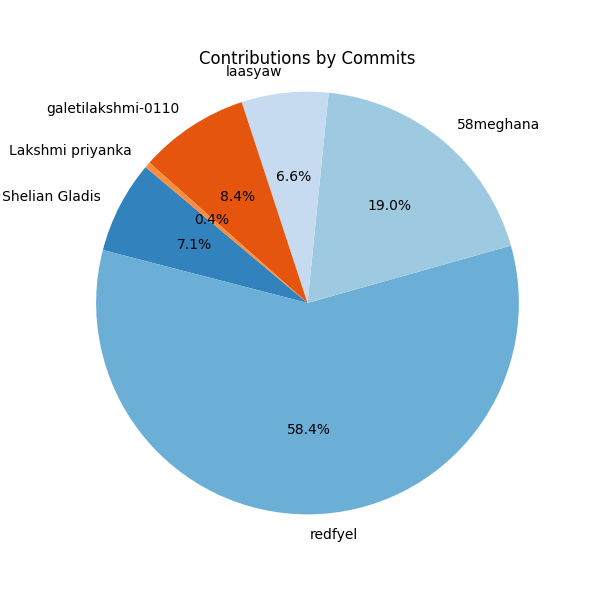
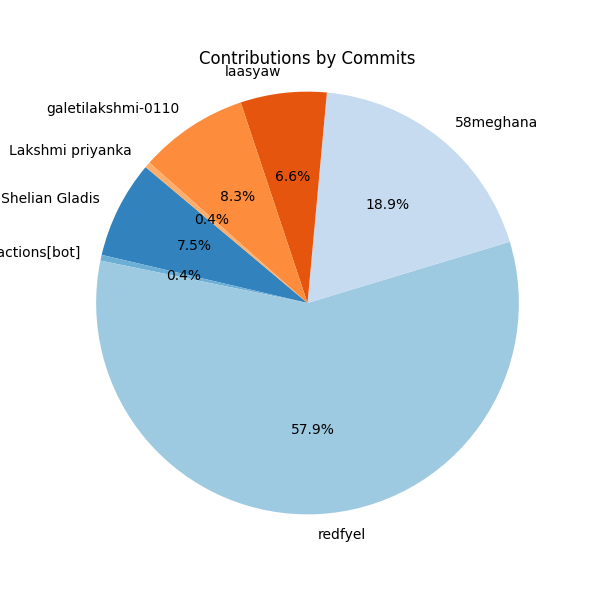
📊 Auto-update contributor pie chart and update README

diff --git a/README.md b/README.md
@@ -53,3 +53,5 @@ disHcovery isn't just another recipe app – it's your **AI-powered, ingredient-
 
 Hungry for a better cooking experience? **Start your disHcovery today! 🚀**
 
+
+![Contributor Pie Chart](contributor-pie.png)
